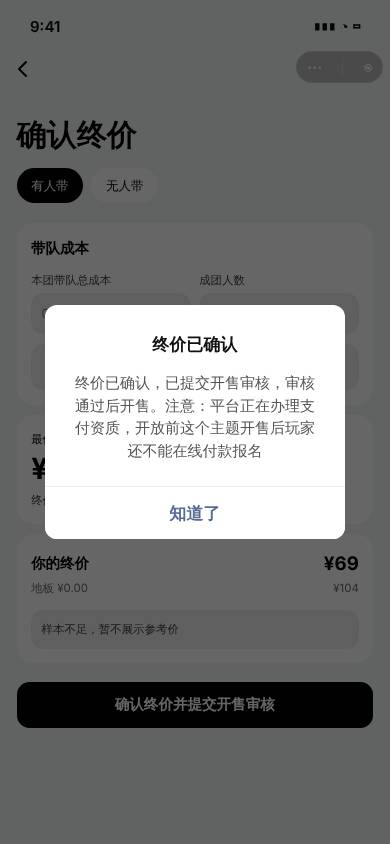
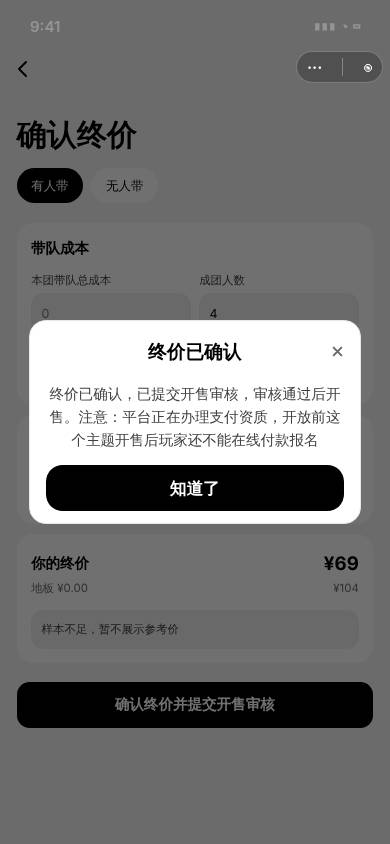
fix: 定价页收款提示改走 utils/modal.js 统一弹窗出口(P-01)；更新截图与结果
Claude-Session: https://claude.ai/code/session_01SUD7bNP9xYnFipCYNMWcAf

diff --git a/chengyinhub-xcx/pages/topic/pricing/index.js b/chengyinhub-xcx/pages/topic/pricing/index.js
@@ -1,4 +1,4 @@
-const toast = require('../../../utils/toast.js');
+const toast = require('../../../utils/toast.js'); const modal = require('../../../utils/modal.js');
 const app = getApp();
 const { readReducedMotion } = require('../../../utils/motion-preference.js');
 
@@ -292,7 +292,7 @@ Page({
           const msg = res.msg || '终价已确认，请等待开售审核';
           // P-01:非平台主题开售后暂不能在线收款,后端在 msg 里写明;toast 放不下,用弹窗让主办方看全。
           if (msg.indexOf('支付资质') >= 0) {
-            wx.showModal({ title: '终价已确认', content: msg, showCancel: false, confirmText: '知道了',
+            modal.show({ title: '终价已确认', content: msg, showCancel: false, confirmText: '知道了',
               complete() { that.goBack(); } });
             return;
           }

diff --git a/docs/delivery/walk-fix-20261102/l3-sell/RESULT.md b/docs/delivery/walk-fix-20261102/l3-sell/RESULT.md
@@ -46,6 +46,8 @@ Other facts the run surfaced, unchanged: a club leader must bind their own club 
 | P-01 (club runs its own paid city theme) | fixed | Sale finalisation (`assertOrganizer`): a city theme (guided tickets) bound to a club with **no** ORGANIZER in its frozen lineup counts the publishing club as its organiser, but only when that club exists, is not deleted, its owner is the theme's publisher, and the publisher's club-leader record is active. With one partner club the rule is unchanged (exactly one); two partners are still refused. No `coop_order` is written, nothing about payees, shares or settlement is changed, and `assertCollectible` is untouched. When the organiser confirms the final price of a paid theme that is not platform-owned, the reply says so in plain words and the pricing page shows it in a modal (it used to be a toast that closed in 0.5 s): 「注意：平台正在办理支付资质，开放前这个主题开售后玩家还不能在线付款报名」. The note reads `isPlatformOwned`, the same fact `assertCollectible` uses. | `TopicSaleFinalizationServiceImpl`, `ApiPricingController`, `pages/topic/pricing/index.js` | Unit, each red on the old code: `TopicSaleFinalizationServiceImplTest` (own club, no partner → sells, payee/compensation untouched; someone else's club, inactive leader, deleted club, no club → still 「当前=0」; partners → old rule), `ApiPricingControllerPaymentNoteTest`, `tests/unit/p01-pricing-payment-not-open-modal.test.js`. HTTP in the rig (`proof/p01-self-after.txt`, `tools/p01_city_sale.py self`): club 7001's leader publishes a paid city theme bound to 7001, no partner invited, no recruiting window → project review → PRICING → confirm reply carries the note → sale review approved → DB `lifecycle=3`, `selling_started_at` set, `coop_order` count 0, content slot still `CLUB 7001` → 7001 opens its own session → quote returns 「该产品暂不支持在线支付…如需报名请联系主办方」, no registration row. The ownership refusals are unit-tested only: over HTTP a theme bound to someone else's club always has an accepted invite, which is a partner. Shots `P-01-*`: before = the round-1 page code against this backend (the note squeezed into a toast that closes after 0.5 s; on master the note does not exist at all), after = this branch. |
 | PR | done | Draft PR #715 exists (`claude/walk-fix-1102-l3-sell` → master); it was open as a draft at 09:20 UTC. | | GitHub |
 
+Round 2 test sweep, after merging master: mini-program `node --test tests/unit/*.test.js` 15580 tests, 15579 pass; the one failure (`no-system-toast-contract`: the new modal called `wx.showModal` directly) was fixed by using `utils/modal.js`, and the page's own `cy-modal-host` now renders it (the after shot shows that host). The contract, P-01 and pricing tests pass afterwards. `UI-GATE-0:PASS`, no baseline entries added. Java (`chengyinhub-admin`, `*Topic*Test,*Pricing*Test,*Sale*Test,*Registration*Test`): 2497 run, 0 failures. The 7 errors are the `*MyBatisTest` classes that need their own MySQL, the same as round 1.
+
 Master merged in with a normal merge (`26765567`); the action ledger conflict was resolved by rebuilding it on the merged tree (line-number shifts only).
 
 ## Test sweep
